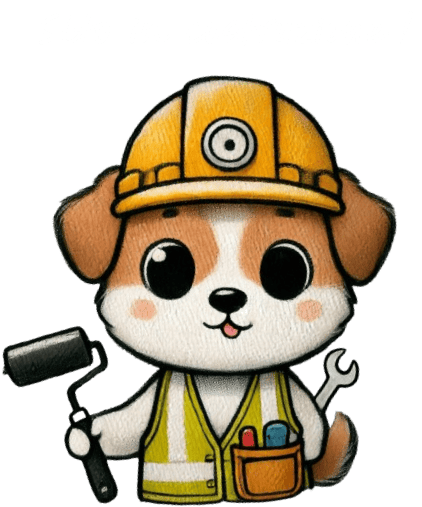
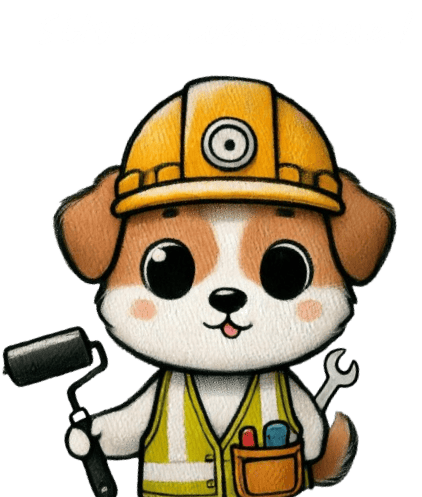
fix overflow

Changed region(s): [[0.0, 0.1509, 0.955, 1.0]]

diff --git a/src/app/page.module.css b/src/app/page.module.css
@@ -7,6 +7,7 @@
   gap: 25px;
   text-align: center;
   font-family: var(--font-comfortaa);
+
   /* background-color: hsl(248, 96%, 67%); */
 }
 
@@ -48,7 +49,7 @@
 
 .drawing {
   position: absolute;
-  bottom: -10px;
+  bottom: 0;
   max-width: 280px;
   height: auto;
 }
